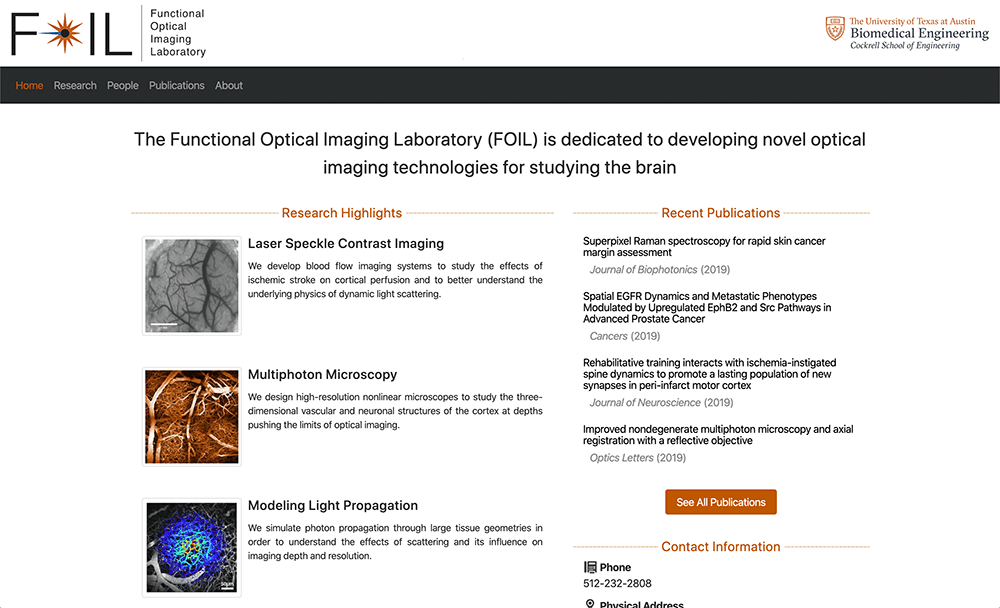
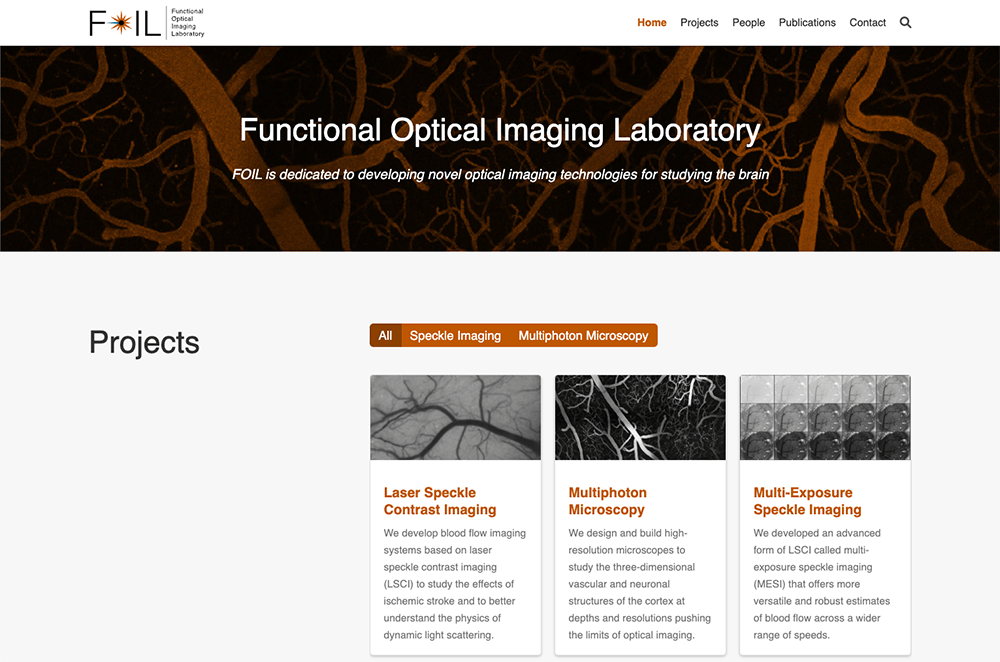
Update FOIL website

diff --git a/content/websites/index.md b/content/websites/index.md
@@ -23,7 +23,7 @@ Behind the scenes, I implemented a comprehensive tracking system using the Reddi
 
 [foil.bme.utexas.edu](https://foil.bme.utexas.edu/)
 
-I helped develop and currently maintain the website for my academic research lab at the University of Texas at Austin. We wanted a platform that did not require editing raw HTML in order to update content such as member lists and publications. The website was built using [Django](https://www.djangoproject.com/) and [Bootstrap](https://getbootstrap.com/) to be fully responsive across a variety of devices.
+I helped develop and currently maintain the website for my academic research lab at the University of Texas at Austin. The website was built using [Hugo](https://gohugo.io/) using the [Wowchemy](https://wowchemy.com/) module for the design and hosted on [GitHub Pages](https://pages.github.com/).
 
 [![Screenshot of FOIL website](FOIL.png)](https://foil.bme.utexas.edu/ "Visit the FOIL website")
 
